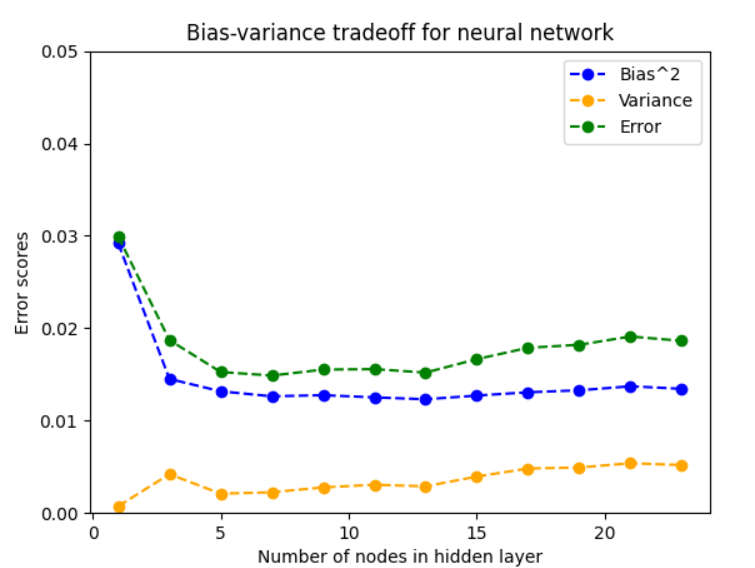
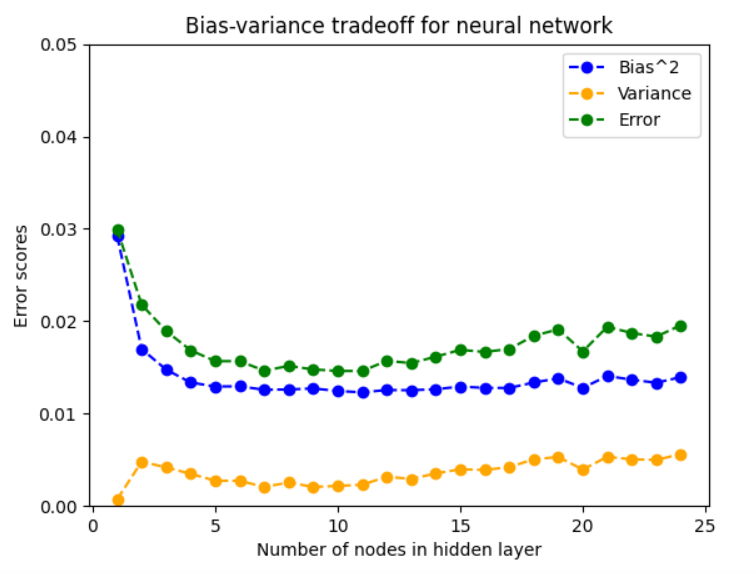
Update plot

Changed region(s): [[0.0, 0.0299, 0.9444, 1.0]]

diff --git a/Additional Exercise/biasvariance_nn.py b/Additional Exercise/biasvariance_nn.py
@@ -15,7 +15,7 @@ X_train, X_test, z_train, z_test = train_test_split(X, z, test_size=0.25)
 
 
 # Set up arrays for plotting
-max_node_range = 50
+max_node_range = 25
 bias_arr = []
 variance_arr = []
 error_arr = []
@@ -25,7 +25,7 @@ print(f"Progress: {progress} %", end="\r")
 
 
 # Loop over different number of nodes in hidden layer
-for i in range(1, max_node_range, 2):
+for i in range(1, max_node_range):
     x_vals.append(i)
     clf = MLPRegressor(hidden_layer_sizes=(i,), activation='logistic', solver='lbfgs', max_iter=2000)
     bias, variance, error = rt.bootstrap_nn(X_train, X_test, z_train, z_test, clf, 100)
